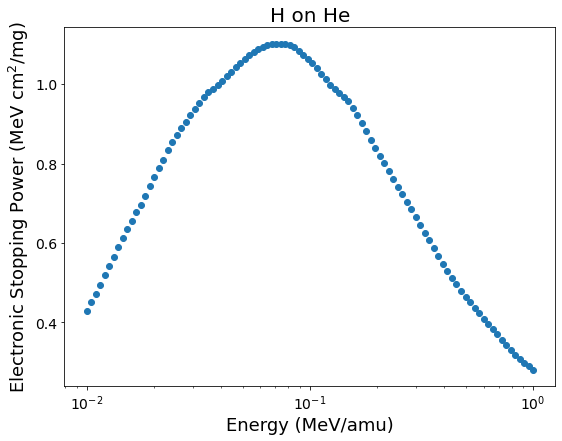
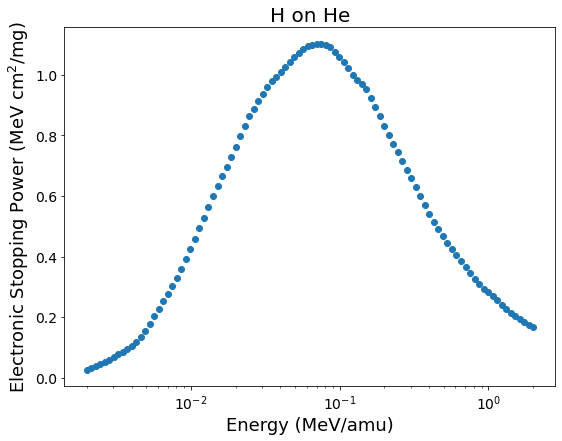
update docs - rm projectile mass

diff --git a/ESPNN/core.py b/ESPNN/core.py
@@ -29,7 +29,7 @@ def run_NN(
     target_mass: int = None,
     emin: int = 0.001,
     emax: int = 10,
-    npoints: int = 1000,
+    npoints: int = 500,
     outdir: str = "./",
     plot: bool = True,
 ):
@@ -48,7 +48,7 @@ def run_NN(
     emax : int, optional
         Maximum grid-energy value (MeV/amu), by default 10
     npoints : int, optional
-        Number of grid-points, by default 1000
+        Number of grid-points, by default 500
     outdir : str, optional
         _description_, by default "./"
     plot : bool, optional

diff --git a/ESPNN/__main__.py b/ESPNN/__main__.py
@@ -40,7 +40,7 @@ if __name__ == "__main__":
     parser.add_argument(
         "-npoints",
         dest="npoints",
-        default=1000,
+        default=500,
         type=int,
         help="Number of grid points (default: 1000)"
     )

diff --git a/README.md b/README.md
@@ -71,14 +71,9 @@ A basic tutorial of the ESPNN package usage is given in <a href="https://github.
 - ``projectile``: Chemical formula for the projectile
 - ``target``: Chemical formula for the target
 
-Optionally, you can provide these parameters:
-
-- ``projectile_mass``: Mass in amu for the projectile
-- ``target_mass``: Mass in amu for the target
-
 ```python
 import ESPNN
-ESPNN.run_NN(projectile='He', projectile_mass=4.002602, target='Au', target_mass=196.966569)
+ESPNN.run_NN(projectile='He', target='Au')
 ```
 
 ![](https://github.com/ale-mendez/ESPNN/blob/master/docs/prediction_files/prediction_2_0.png?raw=true)
@@ -92,11 +87,15 @@ ls -a
 
 #### Other optional arguments
 
+Optionally, you can modify the target mass:
+
+- ``target_mass``: Mass in amu for the target
+
 The energy grid used for the ESPNN calculation can be customized with arguments
 
 - ``emin``: Minimum energy value in MeV/amu units (default: ``0.001``)
 - ``emax``: Maximum energy value in MeV/amu units (default: ``10``)
-- ``npoints``: Number of grid points (default: ``1000``)
+- ``npoints``: Number of grid points (default: ``500``)
 
 Furthermore, the figure plotting and output-file directory-path can be modified via
 
@@ -104,17 +103,17 @@ Furthermore, the figure plotting and output-file directory-path can be modified 
 - ``outdir``: Path to output folder (default: ``"./"``)
 
 ```python
-ESPNN.run_NN(projectile='He', projectile_mass=4.002602, target='Au', target_mass=196.966569, emin=0.01, emax=1, npoints=50)
+ESPNN.run_NN(projectile='H', target='He', emin=0.002, emax=2, npoints=100)
 ```
 
 ![](https://github.com/ale-mendez/ESPNN/blob/master/docs/prediction_files/prediction_4_0.png?raw=true)
 
 ### From terminal
 
-The ESPNN package can also be used from terminal with a syntaxis analogous to the above given:
+The ESPNN package can also be used from terminal with a syntax analogous to the above given:
 
 ```console
-python -m ESPNN H Au -Ym 196.966569
+python -m ESPNN H Au
 ```
 
 Additional information about the optional arguments input can be obtained with the -h, --help flag:
